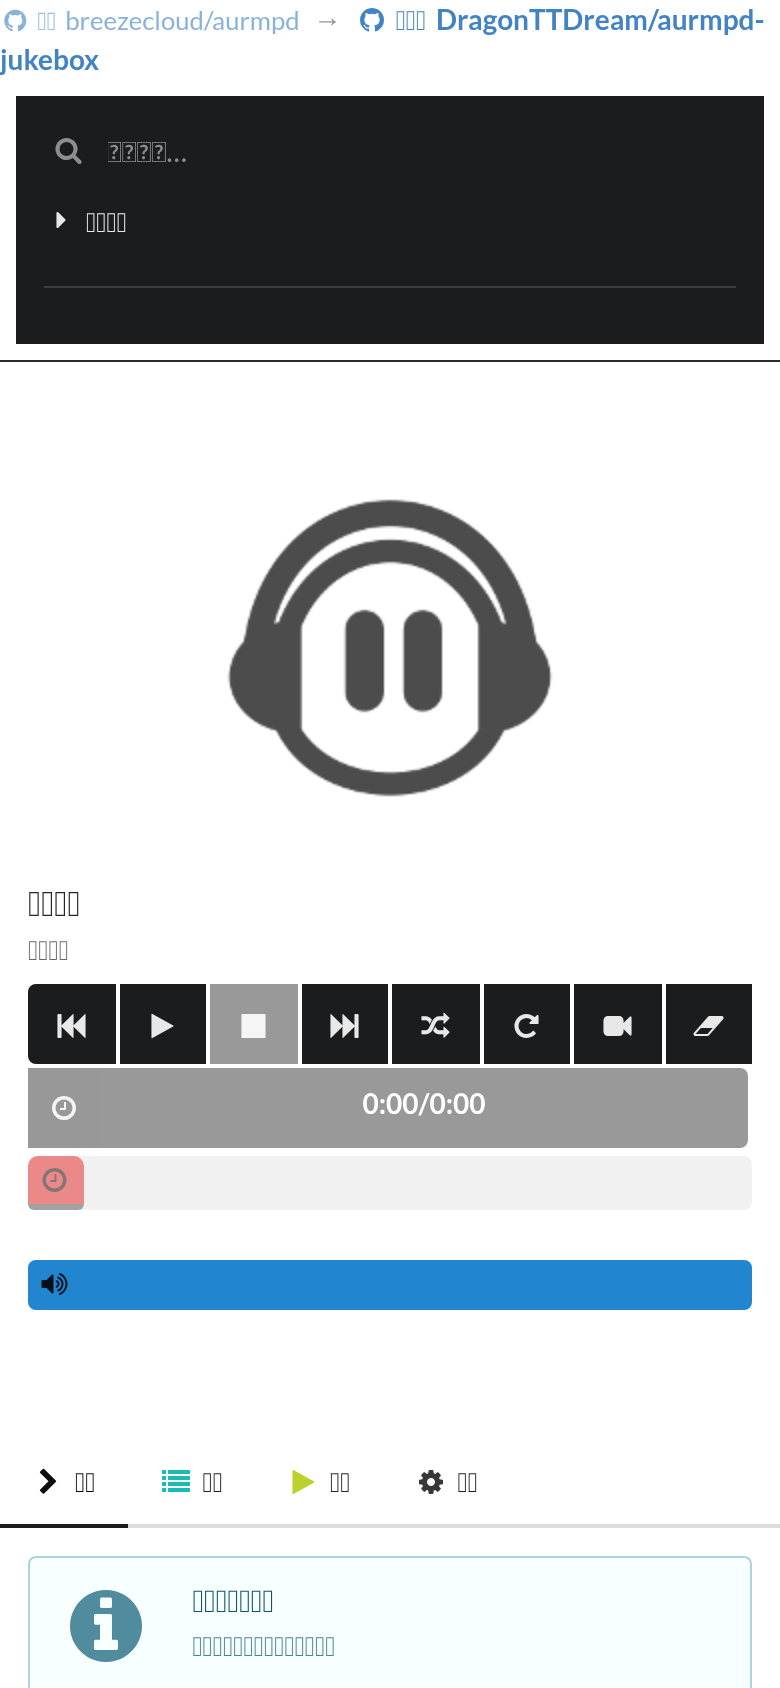
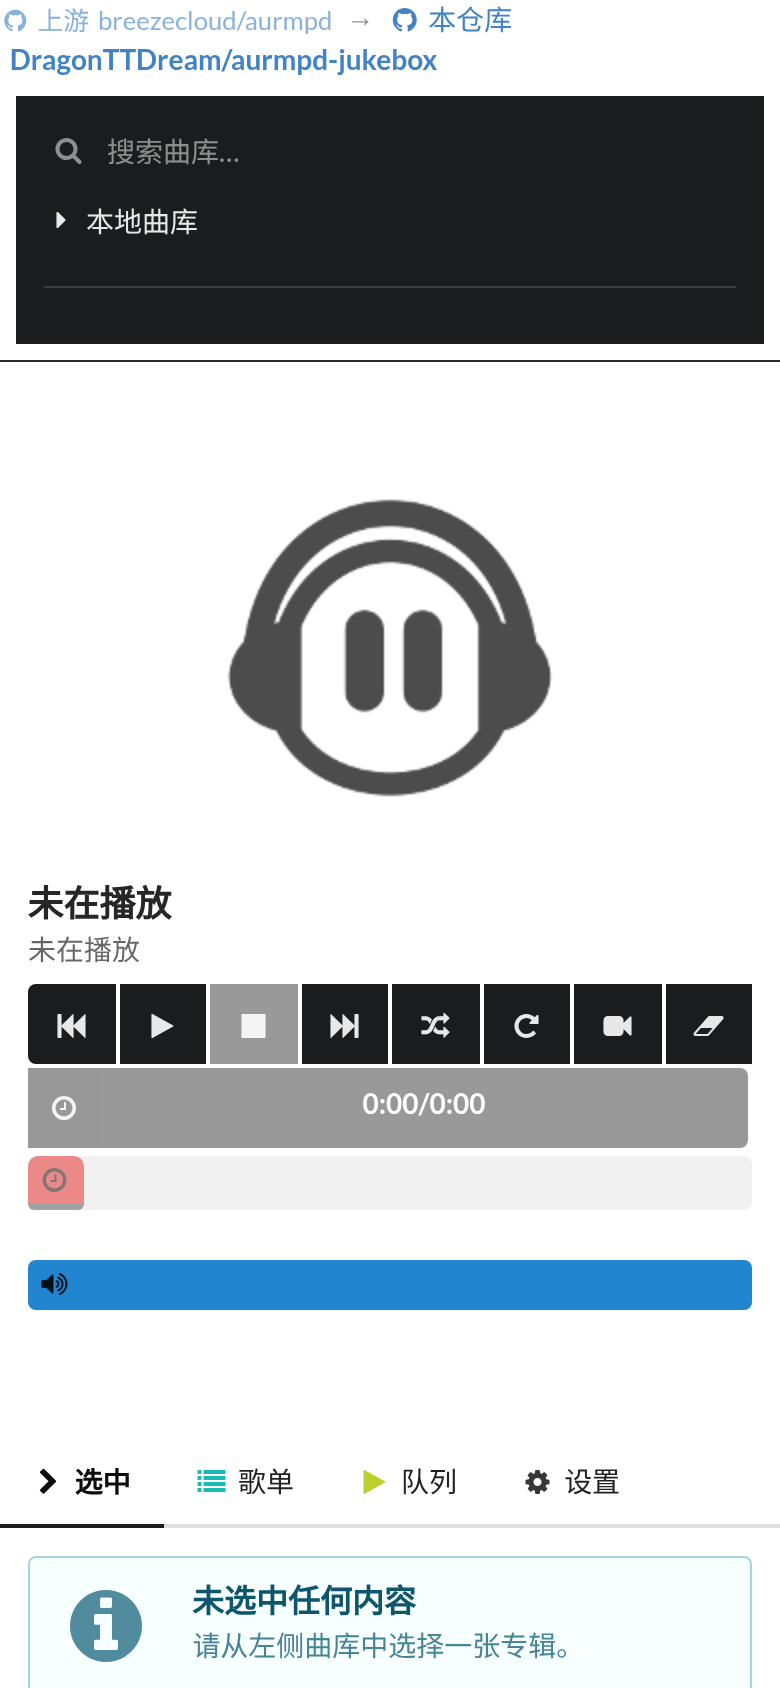
docs: 修复记录拆分为 docs/FIXES.md 并在 README 中链接；截图改用中文可渲染的字体重拍
- 修复记录从 README 移出到 docs/FIXES.md，README 保留入口链接
- 全部截图重拍（此前无头浏览器缺中文字体，中文渲染成方框）
- 艺术家区加载失败时显示服务器返回的具体原因

diff --git a/aurial/src/js/jsx/browser.js b/aurial/src/js/jsx/browser.js
@@ -95,7 +95,7 @@ export default class ArtistList extends Component {
 				this.setState({artists: data.artists, loaded: true, error: null});
 			}.bind(this),
 			error: function(err) {
-				this.setState({error: <IconMessage type="negative" icon="warning circle" header="" message={t('browser.failedArtists')} />, loaded: true});
+				this.setState({error: <IconMessage type="negative" icon="warning circle" header="" message={t('browser.failedArtists')} />, errorText: err.message, loaded: true});
 				console.error(this, err);
 				Messages.message(this.props.events, t('browser.unableArtists', {error: err.message}), "error", "warning sign");
 			}.bind(this)
@@ -124,7 +124,7 @@ export default class ArtistList extends Component {
 				artistsBody = (
 					<div className="subsonic-hint">
 						<i className="plug icon"></i>
-						{tOr('browser.artistsOffline', isZh ? '未连接 Subsonic，可在设置里填写' : 'Subsonic not connected \u2014 check Settings')}
+						{tOr('browser.artistsOffline', isZh ? '未连接 Subsonic，可在设置里填写' : 'Subsonic not connected \u2014 check Settings')}{this.state.errorText ? '（' + this.state.errorText + '）' : ''}
 					</div>
 				);
 			} else {

diff --git a/docs/FIXES.md b/docs/FIXES.md
@@ -1,0 +1,21 @@
+# 修复记录
+
+本文件记录本项目相对上游 v0.2.0 已修复的问题，按「现象 / 原因 / 处理」列出。
+
+| 现象 | 原因 | 处理 |
+| --- | --- | --- |
+| 页面白屏，本地/局域网都打不开 | 前端在 WebSocket 连接建立前就 `send()`，抛 `InvalidStateError` 中断整页渲染 | 改为带发送队列的封装：连接前排队、断线不抛异常 |
+| 曲库为空 / mpd 起不来 | 发布包缺少 `.mpd` 目录，mpd 无法创建日志与数据库文件 | 包内补齐该目录；启动器额外兜底创建 |
+| 改了音乐目录不生效 | mpd 只在数据库文件缺失时才自动扫描 | 新增空库自动扫描 + 曲库面板 `Scan library` 手动重扫 |
+| 托盘退出后有残留进程，目录删不掉 | 退出标志未声明 `volatile`（优化后多线程读不到）；加锁区内的提前 `return` 未释放互斥锁，退出清理永久阻塞；启动器发出关闭指令后不等待结果 | 修正标志类型与解锁路径；启动器改为「等待 → 超时强杀 → 再等待」，并引入 Job 对象保证子进程一并结束 |
+| 重开页面后失去播放记录、无法控制 | 队列只保存在应用内存中，重启后为空，与 mpd 实际队列不一致 | 内部队列改为 mpd 队列的镜像，连接/重连与队列变化时自动同步；`queue_sid` 直接采用 mpd 歌曲 id |
+| 错误方法请求接口导致进程崩溃 | 方法不匹配时不返回响应，随后日志读取空的响应缓冲造成越界 | 已知路由方法不匹配返回 **405**；畸形 JSON 返回 **400** |
+| 多人同时点歌时断连 / 丢命令 | mpd 连接被多个线程无锁共享 | 增加递归互斥锁，写路径与轮询串行化 |
+| 搜索框一直转圈 | 搜索请求走在线曲库接口，失败时不结束也不报错 | 改为过滤本地曲库，并为所有请求加超时与错误透传 |
+| 扫描含异常标签的曲库时崩溃 | 标签为空或非数字时 `std::stoi` 抛异常 | 改为安全解析（空值/非法值取默认值） |
+| 艺术家区显示「加载失败，请检查设置」 | 默认配置指向一个演示用的在线服务器，导致「未配置」判断不成立 | 移除该默认值；未配置时整个区域不渲染，配置了但连不上时折叠显示一行提示 |
+
+---
+
+> 来源说明：其中部分问题源于上游实现，部分源于本分支在改造过程中的实现细节。
+> 具体归类与处理方式由仓库维护者决定。

diff --git a/README.md b/README.md
@@ -122,18 +122,7 @@ sudo apt install mpd libmpdclient2
 
 ## 修复记录
 
-| 现象 | 原因 | 处理 |
-| --- | --- | --- |
-| 页面白屏，本地/局域网都打不开 | 前端在 WebSocket 连接建立前就 `send()`，抛 `InvalidStateError` 中断整页渲染 | 改为带发送队列的封装：连接前排队、断线不抛异常 |
-| 曲库为空 / mpd 起不来 | 发布包缺少 `.mpd` 目录，mpd 无法创建日志与数据库文件 | 包内补齐该目录；启动器额外兜底创建 |
-| 改了音乐目录不生效 | mpd 只在数据库文件缺失时才自动扫描 | 新增空库自动扫描 + 曲库面板 `Scan library` 手动重扫 |
-| 托盘退出后有残留进程，目录删不掉 | 退出标志未声明 `volatile`（优化后多线程读不到）；加锁区内的提前 `return` 未释放互斥锁，退出清理永久阻塞；启动器发出关闭指令后不等待结果 | 修正标志类型与解锁路径；启动器改为「等待 → 超时强杀 → 再等待」，并引入 Job 对象保证子进程一并结束 |
-| 重开页面后失去播放记录、无法控制 | 队列只保存在应用内存中，重启后为空，与 mpd 实际队列不一致 | 内部队列改为 mpd 队列的镜像，连接/重连与队列变化时自动同步；`queue_sid` 直接采用 mpd 歌曲 id |
-| 错误方法请求接口导致进程崩溃 | 方法不匹配时不返回响应，随后日志读取空的响应缓冲造成越界 | 已知路由方法不匹配返回 **405**；畸形 JSON 返回 **400** |
-| 多人同时点歌时断连 / 丢命令 | mpd 连接被多个线程无锁共享 | 增加递归互斥锁，写路径与轮询串行化 |
-| 搜索框一直转圈 | 搜索请求走在线曲库接口，失败时不结束也不报错 | 改为过滤本地曲库，并为所有请求加超时与错误透传 |
-| 扫描含异常标签的曲库时崩溃 | 标签为空或非数字时 `std::stoi` 抛异常 | 改为安全解析（空值/非法值取默认值） |
-| 艺术家区显示「加载失败，请检查设置」 | 默认配置指向一个演示用的在线服务器，导致「未配置」判断不成立 | 移除该默认值；未配置时整个区域不渲染，配置了但连不上时折叠显示一行提示 |
+已修复问题的完整列表（现象 / 原因 / 处理）见 **[docs/FIXES.md](docs/FIXES.md)**。
 
 ## 从源码构建
 
